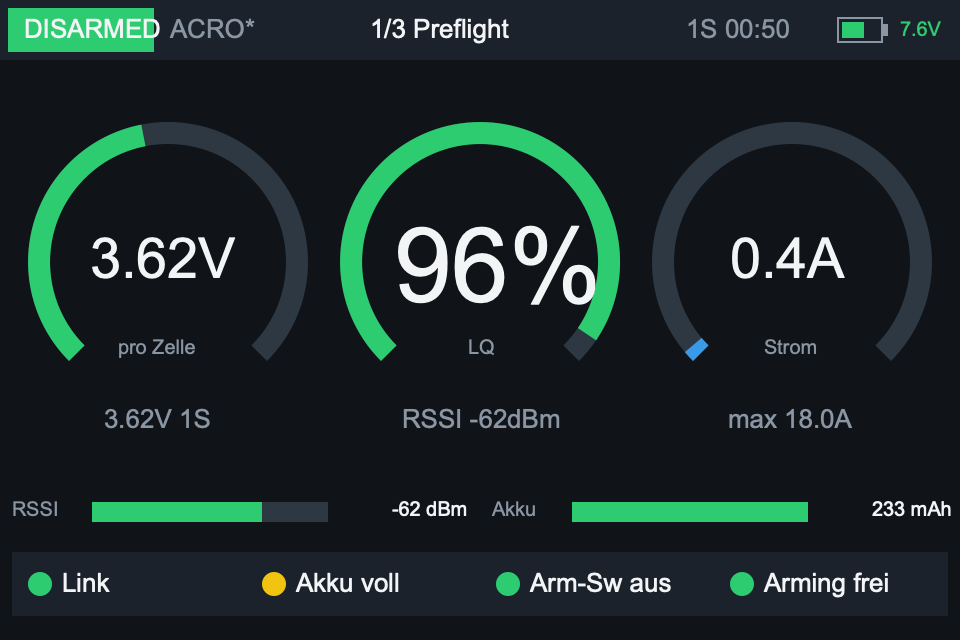
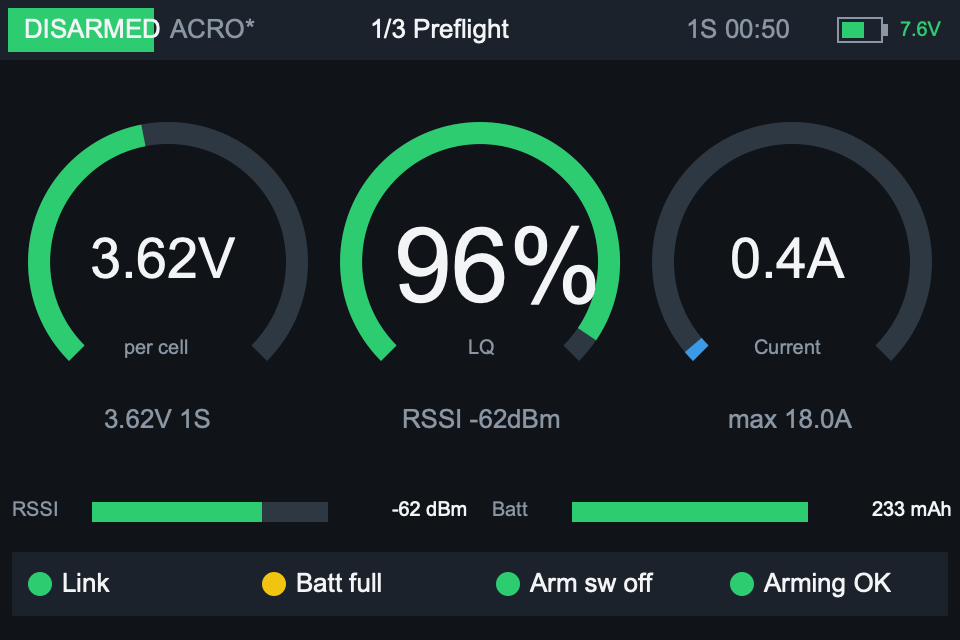
Englische Oberfläche als Standard, Sprach-Option, README auf Englisch
Neue Widget-Option Language (English/Deutsch, Default English) als
CHOICE-Auswahl, auf Firmware ohne CHOICE als Zahl 1/2. Alle Texte der
Anzeige kommen aus einer Stringtabelle pro Sprache.

README.md ist jetzt englisch und für Einsteiger erweitert (Voraussetzungen,
Installation Schritt für Schritt, Bedienung, Fehlersuche). Die deutsche
Fassung liegt in README.de.md. Screenshots neu gerendert, oben bündig
zugeschnitten.

diff --git a/README.md b/README.md
@@ -1,90 +1,124 @@
 # QuadDash
 
-EdgeTX-Lua-Widget für ELRS- und Betaflight-Quads: ein **Preflight- und Debug-Dashboard** für den Sender. Es soll nicht während des Flugs abgelesen werden (dann ist die Brille auf), sondern vor dem Start und bei der Fehlersuche helfen.
+*English | [Deutsch](README.de.md)*
 
-Entwickelt für die RadioMaster TX15 (EdgeTX 3.0, 480×320 Farbdisplay, ELRS 4.x). Es sollte auf jedem EdgeTX-Farbdisplay laufen.
+An EdgeTX Lua widget for ELRS + Betaflight quads: a **preflight and debug dashboard** on your radio. It is not meant to be read during flight (your goggles are on then). It helps before takeoff and when troubleshooting: Is the link good? Is the battery full? Why won't it arm? How low did the voltage go?
+
+Developed on a RadioMaster TX15 (EdgeTX 3.0, 480×320 color screen, ELRS 4.x). It should run on any EdgeTX radio with a color screen.
 
 | Preflight | Link | Session |
 |---|---|---|
 | ![Preflight](docs/page1.png) | ![Link](docs/page2.png) | ![Session](docs/page3.png) |
 
-*Die Bilder stammen aus der Vorschau-Simulation (`tools/render.lua`). Die Schriften auf dem Sender sehen etwas anders aus.*
+*Screenshots come from the preview simulation (`tools/render.lua`). Fonts on the radio look slightly different.*
 
-## Seiten
+## What you need
 
-Die **Kopfzeile** auf allen Seiten zeigt den Arm-Status (DISARMED/ARMED/ARM GESPERRT/FAILSAFE/KEIN LINK), den Betaflight-Flugmodus, den Seitentitel, Zellenzahl und Flugzeit sowie den **Akku des Senders** (Symbol + Spannung). Die Prozentanzeige richtet sich nach den Akku-Schwellen in den Radio-Einstellungen (Min/Max/Warnung), rot ab der Warnschwelle.
-
-1. **Preflight**: Rundinstrumente für Spannung pro Zelle, LQ und Strom. Balken für RSSI und Akku-%. Ampel-Checkliste: Link, Akku voll, Arm-Schalter aus, Arming frei (Betaflight `!ERR`)
-2. **Link**: Uplink/Downlink LQ, RSSI beider Antennen (die aktive ist markiert), SNR, TX Power, RF-Mode. Verlaufsgraph der letzten 60 s, Link-Verluste in Rot
-3. **Session**: Flugzeit (zählt nur armed), Zellenspannung Start/Minimum, verbrauchte mAh, maximaler Strom, minimale LQ/RSSI, Link-Verluste und längster Ausfall. Künstlicher Horizont zum Prüfen der FC-Ausrichtung
-
-Bei Telemetrie-Verlust erscheint ein Banner mit den letzten bekannten Werten:
-
-![Kein Link](docs/page1_nolink.png)
+- A radio with a **color screen** running **EdgeTX** (tested with 3.0). You can see your version under *SYS → Version*. Black-and-white radios are not supported.
+- An **ExpressLRS** receiver on the quad with telemetry working (the default for ELRS).
+- **Betaflight** on the flight controller. Betaflight sends battery voltage, current, flight mode and attitude over the ELRS link automatically, no extra setup needed. Current and mAh only show up if your FC or ESC has a current sensor.
+- **Arm switch on channel 5** (AUX1). This is the ELRS standard, so if you followed a normal ELRS setup, you already have it.
 
 ## Installation
 
-1. `WIDGETS/QuadDash/` auf die SD-Karte des Senders nach `/WIDGETS/` kopieren. Den Sender dazu per USB verbinden und „USB Storage“ wählen.
-2. Im Modell einen Bildschirm mit Vollbild-Layout (1 Zone) anlegen und das Widget **QuadDash** auswählen.
-3. Die Telemetrie-Sensoren müssen erkannt sein (*MDL → Telemetry → Discover new sensors*).
+1. **Download** this repository: click the green **Code** button at the top of this page, then **Download ZIP**, and unzip it.
+2. **Connect the radio** to your computer with a USB cable. When the radio asks, choose **USB Storage (SD)**. The SD card appears as a drive on your computer.
+3. **Copy the widget:** copy the folder `WIDGETS/QuadDash` from the ZIP into the `WIDGETS` folder on the SD card. Afterwards this file must exist: `/WIDGETS/QuadDash/main.lua`. Eject the drive and unplug the cable.
+4. **Discover telemetry sensors:** power up the quad (with a battery, so the link is up), then on the radio go to *MDL → Telemetry → Discover new sensors*. Wait until sensors like `RxBt`, `RQly` and `1RSS` appear, then stop discovery. This is needed once per model.
+5. **Add the widget to a screen:** open the screen setup for your model (*Screens* / *User interface* in the model or quick menu, depending on your EdgeTX version), add a new screen, choose the **full-screen layout with one zone**, tap the zone and select **QuadDash**. Turning off the top bar and sliders in the layout settings gives the widget more room.
+6. Back on the main view, swipe or page to the new screen. Done.
 
-## Optionen
+If the zone is too small (under 300×170 pixels), the widget only shows a compact status line with cell voltage and LQ.
 
-| Option | Standard | Bedeutung |
+## Pages
+
+The **header** on every page shows the arm status (DISARMED / ARMED / ARM BLOCKED / FAILSAFE / NO LINK / WAITING FOR QUAD), the Betaflight flight mode, the page title, cell count, flight time and the **radio battery** (icon + voltage). The radio battery gauge uses the battery range from your radio settings and turns red at the warning threshold.
+
+1. **Preflight:** round gauges for voltage per cell, link quality (LQ) and current. Bars for RSSI and battery %. A traffic-light checklist: link good, battery full, arm switch off, arming allowed (no Betaflight arming error)
+2. **Link:** uplink/downlink LQ, RSSI of both receiver antennas (the active one is highlighted), SNR, TX power and RF mode. A graph of the last 60 seconds, link losses shown in red
+3. **Session:** flight time (counts only while armed), cell voltage at start and minimum, mAh used, maximum current, minimum LQ/RSSI, number of link losses and the longest outage. An artificial horizon to check that the flight controller orientation is set up correctly
+
+When telemetry is lost, a banner shows the last known values:
+
+![No link](docs/page1_nolink.png)
+
+## Using the widget
+
+**Full screen:** an EdgeTX widget only receives buttons and touch input in full-screen mode. Select the widget (tap it or long-press) and choose *Full screen*. Long-press RTN/EXIT to leave full screen.
+
+- Change page: swipe, scroll wheel, PAGE key, or tap the header
+- Reset statistics: long-press ENTER, or the *Reset* button on page 3
+
+In the normal (non-full-screen) view, the option `Page` decides which page is shown.
+
+Statistics also reset automatically when you plug in a new battery (see *How it works* below), so normally you never need to reset by hand.
+
+## Options
+
+Open them via the widget settings (select the widget, then *Widget settings*).
+
+| Option | Default | Meaning |
 |---|---|---|
-| `Page` | 1 | Seite in der normalen Ansicht (1–3) |
-| `Cells` | 0 | Zellenzahl, 0 = automatisch (`ceil(V / 4,35)`) |
-| `LowCell` | 350 | Warnschwelle in 1/100 V pro Zelle |
-| `CritCell` | 330 | kritische Schwelle in 1/100 V pro Zelle |
-| `Voice` | an | Sprachwarnung bei niedriger Zellenspannung |
-| `MuteSw` | – | Schalter zum Stummschalten der Warnungen (z. B. Taste SW6), siehe unten |
+| `Page` | 1 | Page shown in the normal view (1–3) |
+| `Cells` | 0 | Cell count, 0 = detect automatically (`ceil(V / 4.35)`) |
+| `LowCell` | 350 | Warning threshold in 1/100 V per cell (350 = 3.50 V) |
+| `CritCell` | 330 | Critical threshold in 1/100 V per cell (330 = 3.30 V) |
+| `Voice` | on | Spoken warning when the cell voltage is low |
+| `MuteSw` | – | Switch that mutes the warnings, e.g. a button (see below) |
+| `Language` | English | Language of the widget (English or Deutsch) |
 
-## Bedienung (Vollbild)
+The `Language` option only changes the text on screen. Spoken warnings use the voice pack installed on your radio.
 
-- Seite wechseln: wischen, Drehrad, PAGE-Taste oder Kopfzeile antippen
-- Statistik zurücksetzen: ENTER lang oder „Reset“ auf Seite 3
+Automatic cell detection works for LiPo and LiHV packs from full down to storage voltage. A nearly empty pack (below about 3.3 V per cell) may be detected with one cell too few. If you often plug in empty packs, set `Cells` to your fixed cell count.
 
-Tasten- und Touch-Events bekommt ein EdgeTX-Widget nur im Vollbild. In der normalen Ansicht legt deshalb die Option `Page` die Seite fest.
+## Muting the warnings
 
-## Warnungen stummschalten
+With the option `MuteSw`, any switch can mute the voice warnings, for example while you tune the quad in Betaflight on the bench.
 
-Mit der Option `MuteSw` schaltet ein beliebiger Schalter die Sprachwarnungen stumm, zum Beispiel beim Einstellen in Betaflight.
+- While muted, a red **MUTED** appears on the right side of the header.
+- **Muting never applies in flight:** once you arm, warnings are active again and the header shows an orange **ACTIVE**.
+- If the flight controller is only powered over USB (under 2 V, only while disarmed), the widget recognizes "no battery", shows **USB** and does not warn anyway.
 
-- Ist er aktiv, erscheint rechts in der Kopfzeile ein rotes **STUMM**.
-- **Im Flug wirkt der Mute nie:** Armst du, ist die Warnung wieder aktiv, und die Kopfzeile zeigt orange **LAUT**.
-- Hängt der FC nur am USB (unter 2 V, nur disarmed), erkennt das Widget „kein Akku“, zeigt **USB** an und warnt ohnehin nicht.
+On the TX15, one of the six buttons with RGB LEDs works well for this:
+1. *MDL → Setup → Customizable Switches*, select SW6.
+2. Type **2POS** (latching), start state **Off**, so the radio is never muted after power-on.
+3. Color **On = red**, Off = dark.
+4. In the QuadDash options, set `MuteSw` = SW6.
 
-Auf der TX15 passt dafür eine der sechs Tasten mit RGB-LED:
-1. *MDL → Setup → Customizable Switches*, dort SW6 einstellen.
-2. Typ **2POS** (einrasten), Startzustand **Off**, damit nach dem Einschalten nicht stumm ist.
-3. Farbe **An = Rot**, Aus = dunkel.
-4. In den QuadDash-Optionen `MuteSw` = SW6 wählen.
+## Troubleshooting
 
-## Voraussetzungen und Logik
+- **Values show `--`:** the sensor is missing. Run *Discover new sensors* again with the quad powered (installation step 4). Current and mAh stay empty without a current sensor on the quad.
+- **Header says WAITING FOR QUAD:** the radio has no link to the receiver yet. Check that the quad is powered and bound.
+- **Wrong cell count:** set the option `Cells` to your pack's cell count.
+- **ARM BLOCKED:** Betaflight refuses to arm. Connect the quad to the Betaflight Configurator to see the reason (for example throttle not low, quad not level, or USB connected).
+- **Arm status looks wrong:** the widget expects the arm switch on channel 5 (AUX1).
+- **Widget does not appear in the list:** check the path on the SD card, it must be exactly `/WIDGETS/QuadDash/main.lua`.
 
-- **Sensoren:** ELRS-Link-Sensoren (`1RSS`, `2RSS`, `RQly`, `RSNR`, `ANT`, `RFMD`, `TPWR`, `TRSS`, `TQly`, `TSNR`) und Betaflight-Telemetrie (`RxBt`, `Curr`, `Capa`, `Bat%`, `FM`, `Ptch`, `Roll`, `Yaw`). Fehlende Sensoren zeigt das Widget als `--` an.
-- **Arm-Status:** CH5 (ELRS-Arm-Kanal) ist an **und** der Betaflight-Flugmodus endet nicht auf `*` (disarmed) und enthält kein `!ERR` (Arming gesperrt).
-- **Link-Status:** über `getRSSI() > 0`.
-- **Neue Session** (automatischer Reset): bei anderer Zellenzahl, wenn noch nicht geflogen wurde, oder bei vollem Akku (≥ 4,0 V/Zelle und mehr als 0,4 V über dem bisherigen Minimum). Nach einem Crash erholt sich die Spannung ohne Last, dabei bleiben die Daten erhalten.
-- **Sprachwarnung:** „Battery low“ + Wert, wenn die Zellenspannung 3 s unter der Schwelle bleibt. Wiederholung alle 30 s, kritisch alle 10 s. Link-Warnungen übernimmt EdgeTX selbst.
+## How it works
 
-## Entwicklung
+- **Sensors:** ELRS link sensors (`1RSS`, `2RSS`, `RQly`, `RSNR`, `ANT`, `RFMD`, `TPWR`, `TRSS`, `TQly`, `TSNR`) and Betaflight telemetry (`RxBt`, `Curr`, `Capa`, `Bat%`, `FM`, `Ptch`, `Roll`, `Yaw`). Missing sensors are shown as `--`.
+- **Arm status:** CH5 (ELRS arm channel) is on **and** the Betaflight flight mode does not end with `*` (disarmed) and does not contain `!ERR` (arming blocked).
+- **Link status:** via `getRSSI() > 0`.
+- **New session** (automatic reset): when the cell count changes, when you have not flown yet, or with a full battery (≥ 4.0 V/cell and more than 0.4 V above the previous minimum). After a crash the voltage recovers without load; the data is kept in that case.
+- **Voice warning:** "Battery low" + value when the cell voltage stays below the threshold for 3 s. Repeats every 30 s, every 10 s when critical. EdgeTX itself handles link warnings.
 
-Die Tools brauchen ein lokales Lua (`brew install lua`) und laufen aus dem Repo-Root:
+## Development
+
+The tools need a local Lua (`brew install lua`) and run from the repo root:
 
 ```sh
-lua tools/sim.lua      # Szenarien gegen eine nachgebaute EdgeTX-API
-lua tools/render.lua   # SVG-Vorschau aller Seiten nach preview/
+lua tools/sim.lua      # scenarios against a mocked EdgeTX API
+lua tools/render.lua   # SVG preview of all pages into preview/
 ```
 
-`sim.lua` entfernt die String-Metatable, weil EdgeTX keine String-Methoden kennt. `s:find()` führt dort zu *attempt to index a string value*, deshalb verwendet das Widget immer `string.find(s, …)`.
+`sim.lua` removes the string metatable because EdgeTX has no string methods. `s:find()` fails there with *attempt to index a string value*, so the widget always uses `string.find(s, …)`.
 
-## Geplant
+## Planned
 
-- GPS-Seite (Satelliten, Entfernung/Richtung zum Home-Punkt, Maximalwerte, letzte bekannte Position nach Link-Verlust)
-- GPS-Fix in der Preflight-Checkliste
-- Letzte Position bei Link-Verlust auf die SD-Karte schreiben
+- GPS page (satellites, distance/direction to home, maximum values, last known position after link loss)
+- GPS fix in the preflight checklist
+- Write the last position to the SD card on link loss
 
-## Lizenz
+## License
 
 [MIT](LICENSE)

diff --git a/README.de.md b/README.de.md
@@ -1,0 +1,93 @@
+# QuadDash
+
+*[English](README.md) | Deutsch*
+
+EdgeTX-Lua-Widget für ELRS- und Betaflight-Quads: ein **Preflight- und Debug-Dashboard** für den Sender. Es soll nicht während des Flugs abgelesen werden (dann ist die Brille auf), sondern vor dem Start und bei der Fehlersuche helfen.
+
+Entwickelt für die RadioMaster TX15 (EdgeTX 3.0, 480×320 Farbdisplay, ELRS 4.x). Es sollte auf jedem EdgeTX-Farbdisplay laufen.
+
+| Preflight | Link | Session |
+|---|---|---|
+| ![Preflight](docs/page1.png) | ![Link](docs/page2.png) | ![Session](docs/page3.png) |
+
+*Die Bilder stammen aus der Vorschau-Simulation (`tools/render.lua`) und zeigen die englische Oberfläche. Mit der Option `Language` = Deutsch erscheinen alle Texte auf Deutsch. Die Schriften auf dem Sender sehen etwas anders aus.*
+
+## Seiten
+
+Die **Kopfzeile** auf allen Seiten zeigt den Arm-Status (DISARMED/ARMED/ARM GESPERRT/FAILSAFE/KEIN LINK), den Betaflight-Flugmodus, den Seitentitel, Zellenzahl und Flugzeit sowie den **Akku des Senders** (Symbol + Spannung). Die Prozentanzeige richtet sich nach den Akku-Schwellen in den Radio-Einstellungen (Min/Max/Warnung), rot ab der Warnschwelle.
+
+1. **Preflight**: Rundinstrumente für Spannung pro Zelle, LQ und Strom. Balken für RSSI und Akku-%. Ampel-Checkliste: Link, Akku voll, Arm-Schalter aus, Arming frei (Betaflight `!ERR`)
+2. **Link**: Uplink/Downlink LQ, RSSI beider Antennen (die aktive ist markiert), SNR, TX Power, RF-Mode. Verlaufsgraph der letzten 60 s, Link-Verluste in Rot
+3. **Session**: Flugzeit (zählt nur armed), Zellenspannung Start/Minimum, verbrauchte mAh, maximaler Strom, minimale LQ/RSSI, Link-Verluste und längster Ausfall. Künstlicher Horizont zum Prüfen der FC-Ausrichtung
+
+Bei Telemetrie-Verlust erscheint ein Banner mit den letzten bekannten Werten:
+
+![Kein Link](docs/page1_nolink.png)
+
+## Installation
+
+1. `WIDGETS/QuadDash/` auf die SD-Karte des Senders nach `/WIDGETS/` kopieren. Den Sender dazu per USB verbinden und „USB Storage“ wählen.
+2. Im Modell einen Bildschirm mit Vollbild-Layout (1 Zone) anlegen und das Widget **QuadDash** auswählen.
+3. Die Telemetrie-Sensoren müssen erkannt sein (*MDL → Telemetry → Discover new sensors*).
+
+## Optionen
+
+| Option | Standard | Bedeutung |
+|---|---|---|
+| `Page` | 1 | Seite in der normalen Ansicht (1–3) |
+| `Cells` | 0 | Zellenzahl, 0 = automatisch (`ceil(V / 4,35)`) |
+| `LowCell` | 350 | Warnschwelle in 1/100 V pro Zelle |
+| `CritCell` | 330 | kritische Schwelle in 1/100 V pro Zelle |
+| `Voice` | an | Sprachwarnung bei niedriger Zellenspannung |
+| `MuteSw` | – | Schalter zum Stummschalten der Warnungen (z. B. Taste SW6), siehe unten |
+| `Language` | English | Sprache der Anzeige (English oder Deutsch). Die Sprachansagen kommen aus dem Soundpaket des Senders. |
+
+## Bedienung (Vollbild)
+
+- Seite wechseln: wischen, Drehrad, PAGE-Taste oder Kopfzeile antippen
+- Statistik zurücksetzen: ENTER lang oder „Reset“ auf Seite 3
+
+Tasten- und Touch-Events bekommt ein EdgeTX-Widget nur im Vollbild. In der normalen Ansicht legt deshalb die Option `Page` die Seite fest.
+
+## Warnungen stummschalten
+
+Mit der Option `MuteSw` schaltet ein beliebiger Schalter die Sprachwarnungen stumm, zum Beispiel beim Einstellen in Betaflight.
+
+- Ist er aktiv, erscheint rechts in der Kopfzeile ein rotes **STUMM**.
+- **Im Flug wirkt der Mute nie:** Armst du, ist die Warnung wieder aktiv, und die Kopfzeile zeigt orange **LAUT**.
+- Hängt der FC nur am USB (unter 2 V, nur disarmed), erkennt das Widget „kein Akku“, zeigt **USB** an und warnt ohnehin nicht.
+
+Auf der TX15 passt dafür eine der sechs Tasten mit RGB-LED:
+1. *MDL → Setup → Customizable Switches*, dort SW6 einstellen.
+2. Typ **2POS** (einrasten), Startzustand **Off**, damit nach dem Einschalten nicht stumm ist.
+3. Farbe **An = Rot**, Aus = dunkel.
+4. In den QuadDash-Optionen `MuteSw` = SW6 wählen.
+
+## Voraussetzungen und Logik
+
+- **Sensoren:** ELRS-Link-Sensoren (`1RSS`, `2RSS`, `RQly`, `RSNR`, `ANT`, `RFMD`, `TPWR`, `TRSS`, `TQly`, `TSNR`) und Betaflight-Telemetrie (`RxBt`, `Curr`, `Capa`, `Bat%`, `FM`, `Ptch`, `Roll`, `Yaw`). Fehlende Sensoren zeigt das Widget als `--` an.
+- **Arm-Status:** CH5 (ELRS-Arm-Kanal) ist an **und** der Betaflight-Flugmodus endet nicht auf `*` (disarmed) und enthält kein `!ERR` (Arming gesperrt).
+- **Link-Status:** über `getRSSI() > 0`.
+- **Neue Session** (automatischer Reset): bei anderer Zellenzahl, wenn noch nicht geflogen wurde, oder bei vollem Akku (≥ 4,0 V/Zelle und mehr als 0,4 V über dem bisherigen Minimum). Nach einem Crash erholt sich die Spannung ohne Last, dabei bleiben die Daten erhalten.
+- **Sprachwarnung:** „Battery low“ + Wert, wenn die Zellenspannung 3 s unter der Schwelle bleibt. Wiederholung alle 30 s, kritisch alle 10 s. Link-Warnungen übernimmt EdgeTX selbst.
+
+## Entwicklung
+
+Die Tools brauchen ein lokales Lua (`brew install lua`) und laufen aus dem Repo-Root:
+
+```sh
+lua tools/sim.lua      # Szenarien gegen eine nachgebaute EdgeTX-API
+lua tools/render.lua   # SVG-Vorschau aller Seiten nach preview/
+```
+
+`sim.lua` entfernt die String-Metatable, weil EdgeTX keine String-Methoden kennt. `s:find()` führt dort zu *attempt to index a string value*, deshalb verwendet das Widget immer `string.find(s, …)`.
+
+## Geplant
+
+- GPS-Seite (Satelliten, Entfernung/Richtung zum Home-Punkt, Maximalwerte, letzte bekannte Position nach Link-Verlust)
+- GPS-Fix in der Preflight-Checkliste
+- Letzte Position bei Link-Verlust auf die SD-Karte schreiben
+
+## Lizenz
+
+[MIT](LICENSE)
